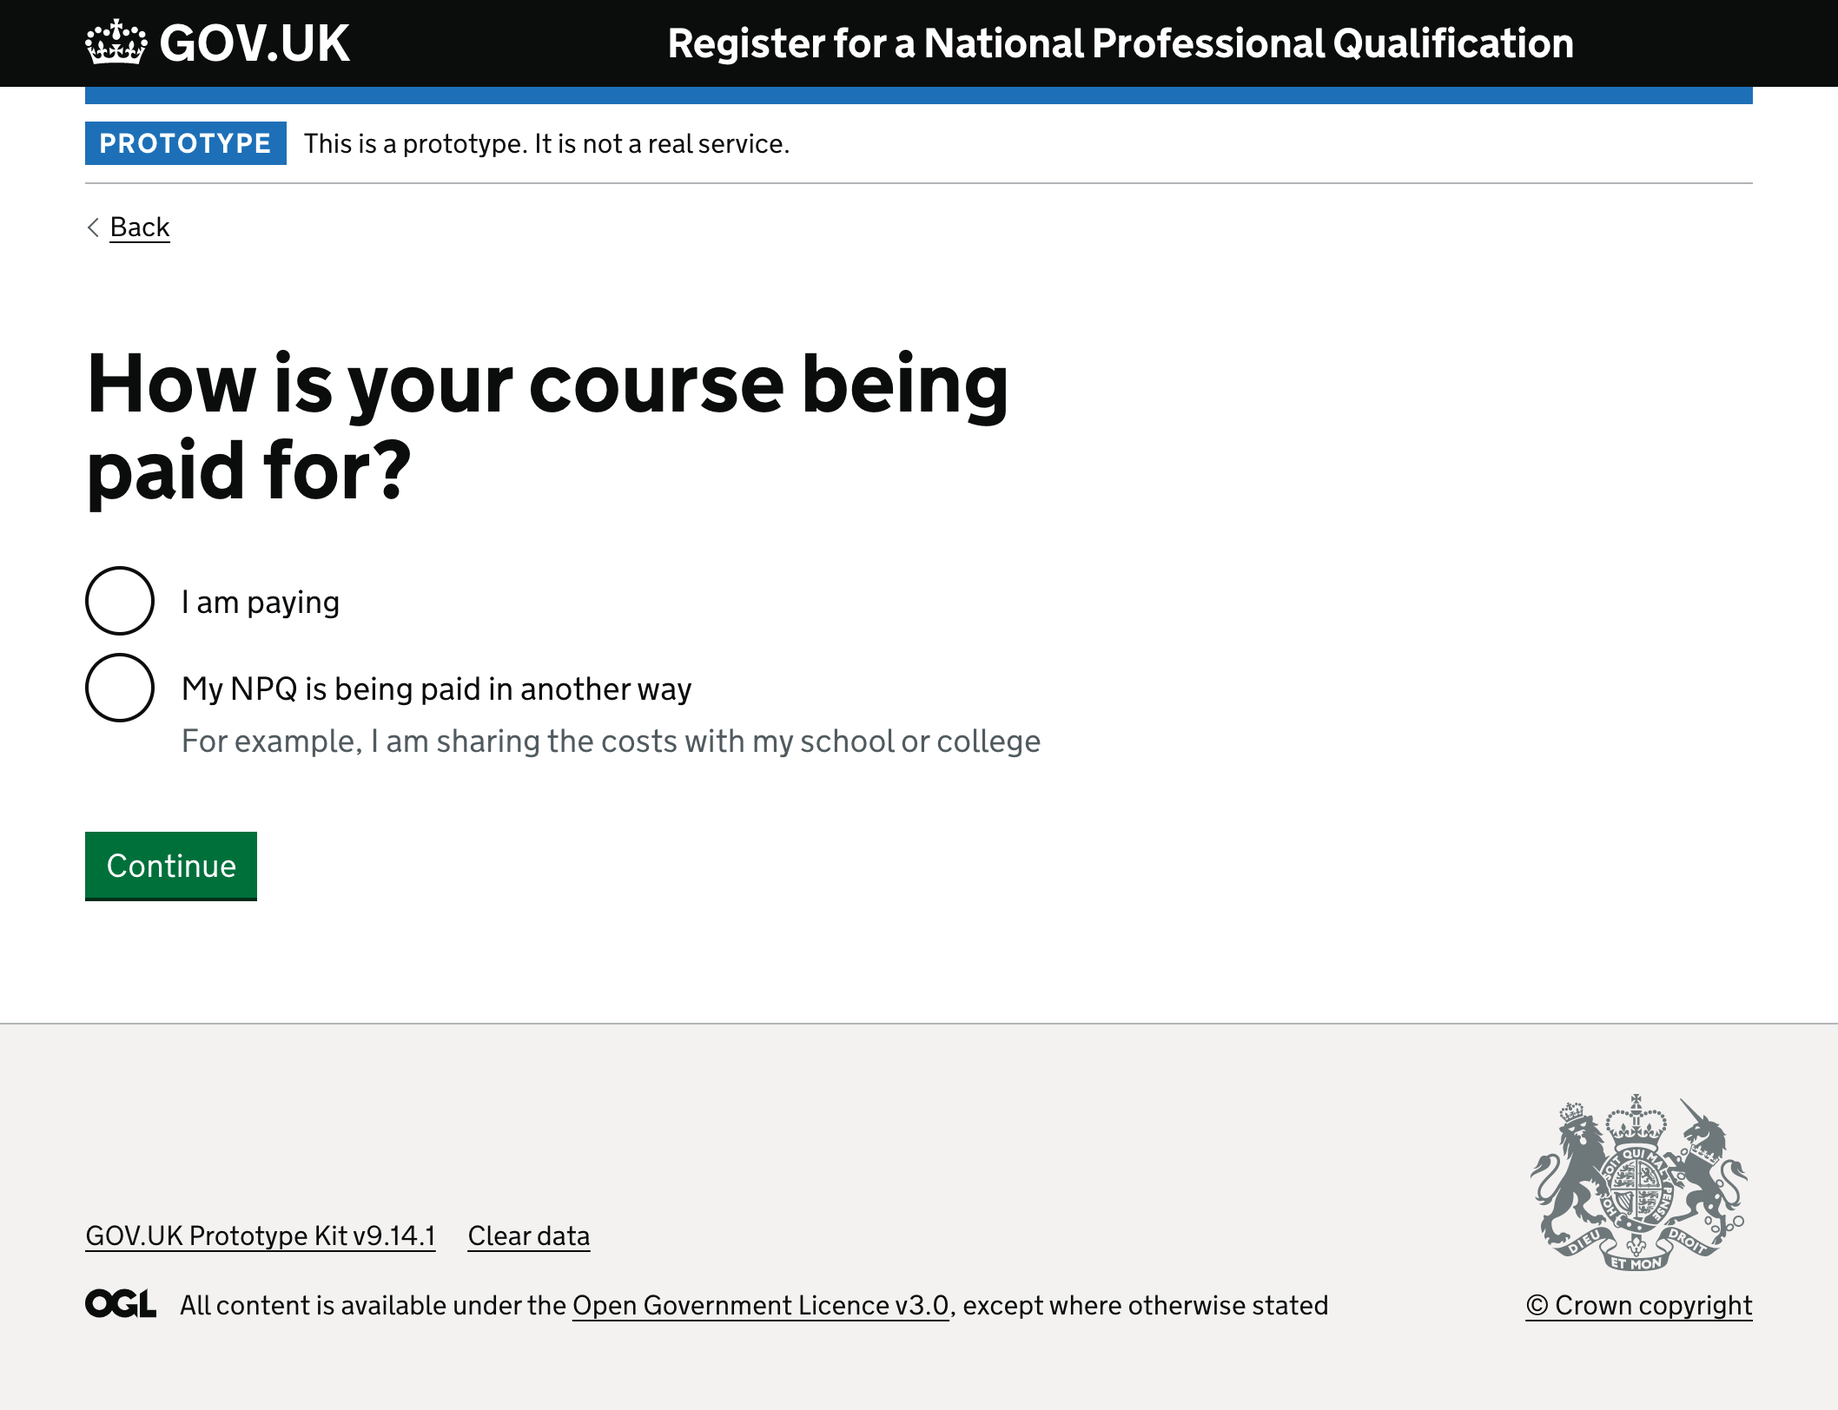
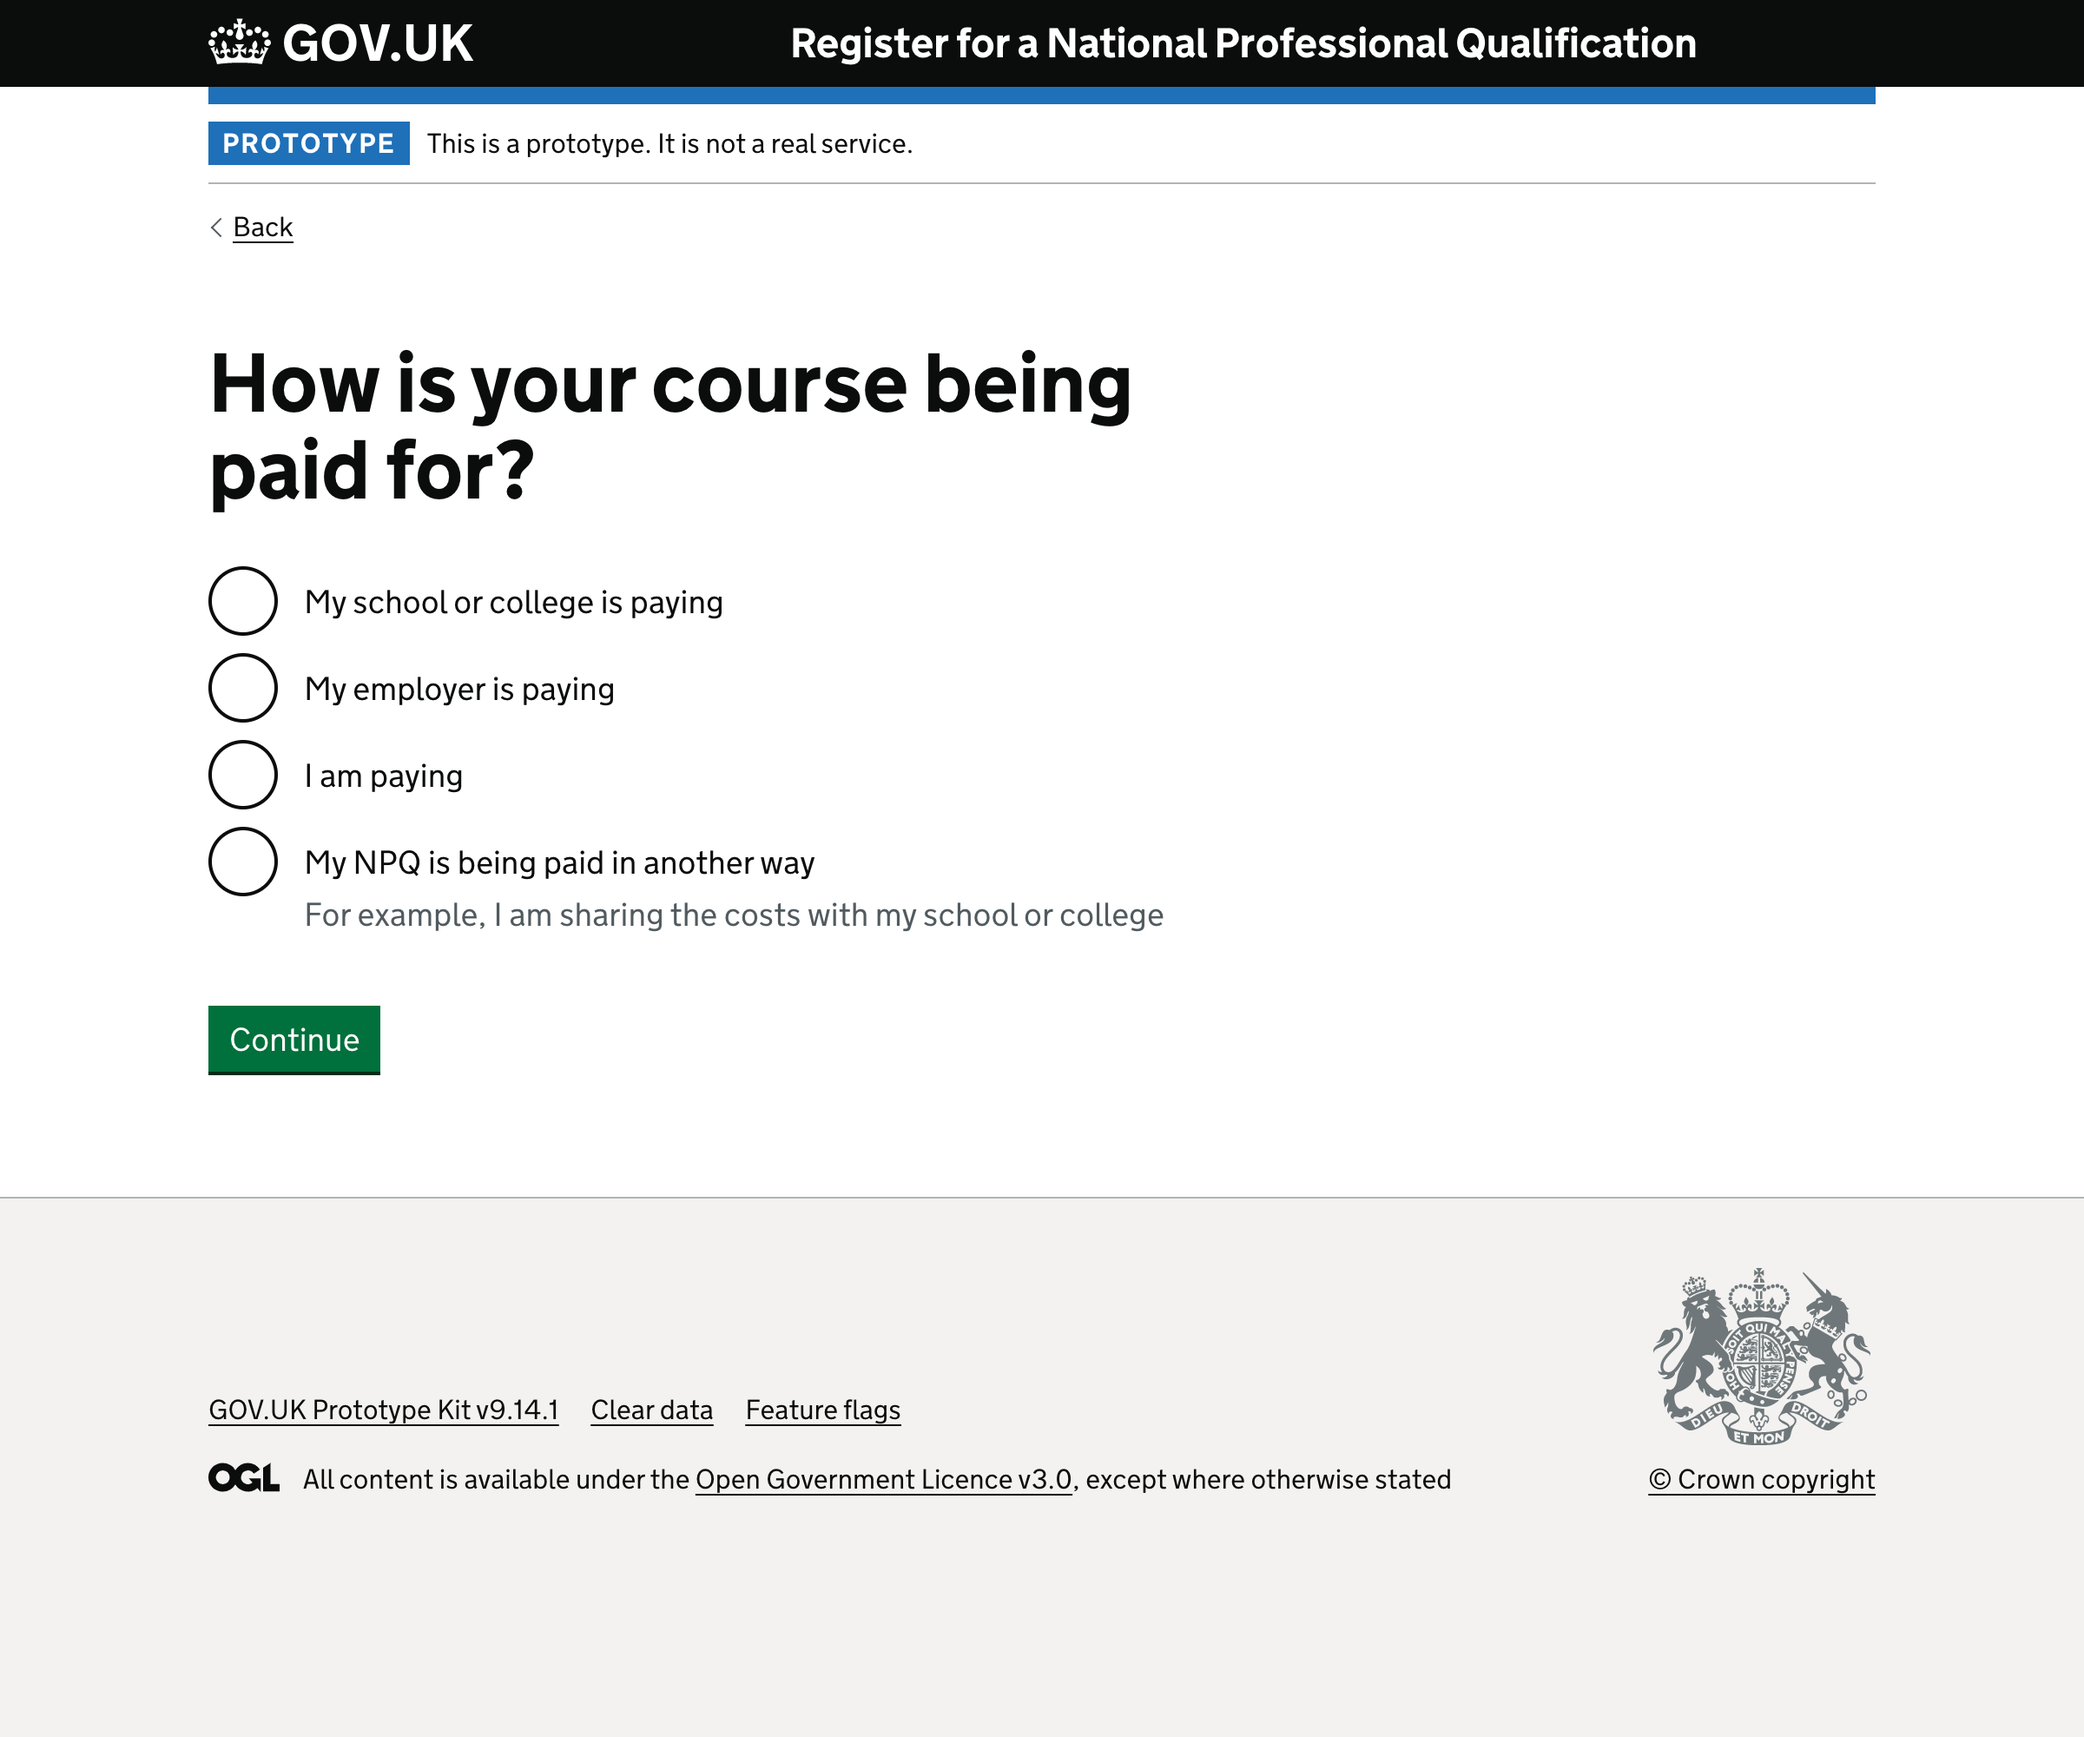
Update funding design for international

diff --git a/app/posts/register-for-an-npq/2021-09-28-international-and-non-teacher.md b/app/posts/register-for-an-npq/2021-09-28-international-and-non-teacher.md
@@ -94,14 +94,18 @@ We will survey providers about whether they accept international users. The list
 
 ## Funding
 
-The funding options are used as an indicator for providers to know who is paying. In a non-teacher and international context we can simplify this to:
+The funding options are used as an indicator for providers to know who is paying.
 
+In a non-teacher and international context we will use:
+
+- My school or college is paying
+- My employer is paying
 - I am paying
 - My NPQ is being paid another way
 
 These users may not know what a trust is, and they may not have a school or college – and it might not matter if their school is contributing.
 
-We are surveying providers about how they accept payment from international and non-teacher users.
+After we surveyed providers about payment from international and non-teacher users they told us that their school or employer often paid.
 
 {{ appFigure({
   title: 'How is your course being paid for?',
